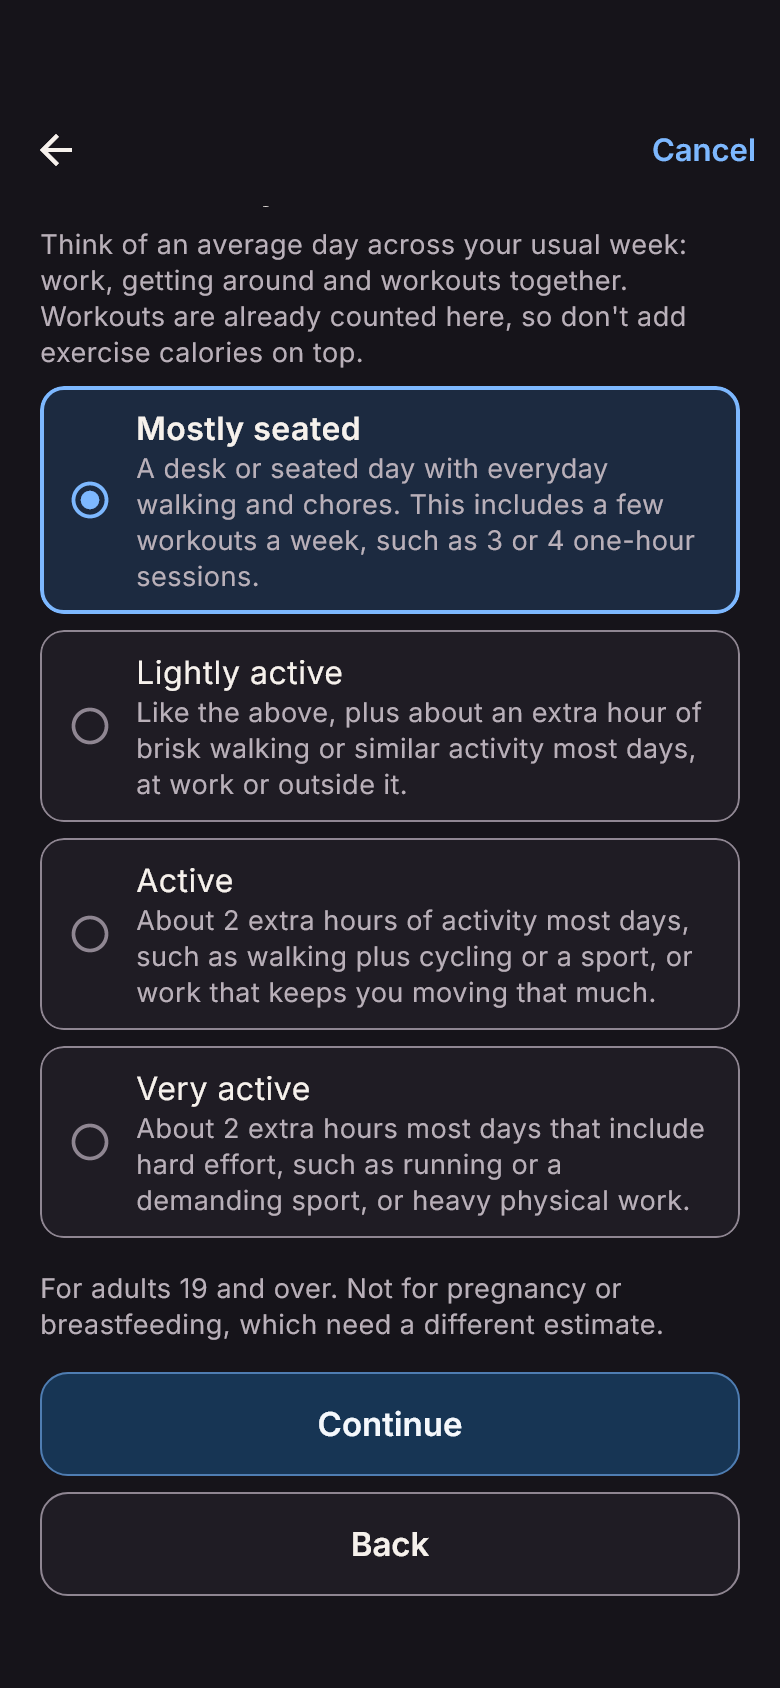
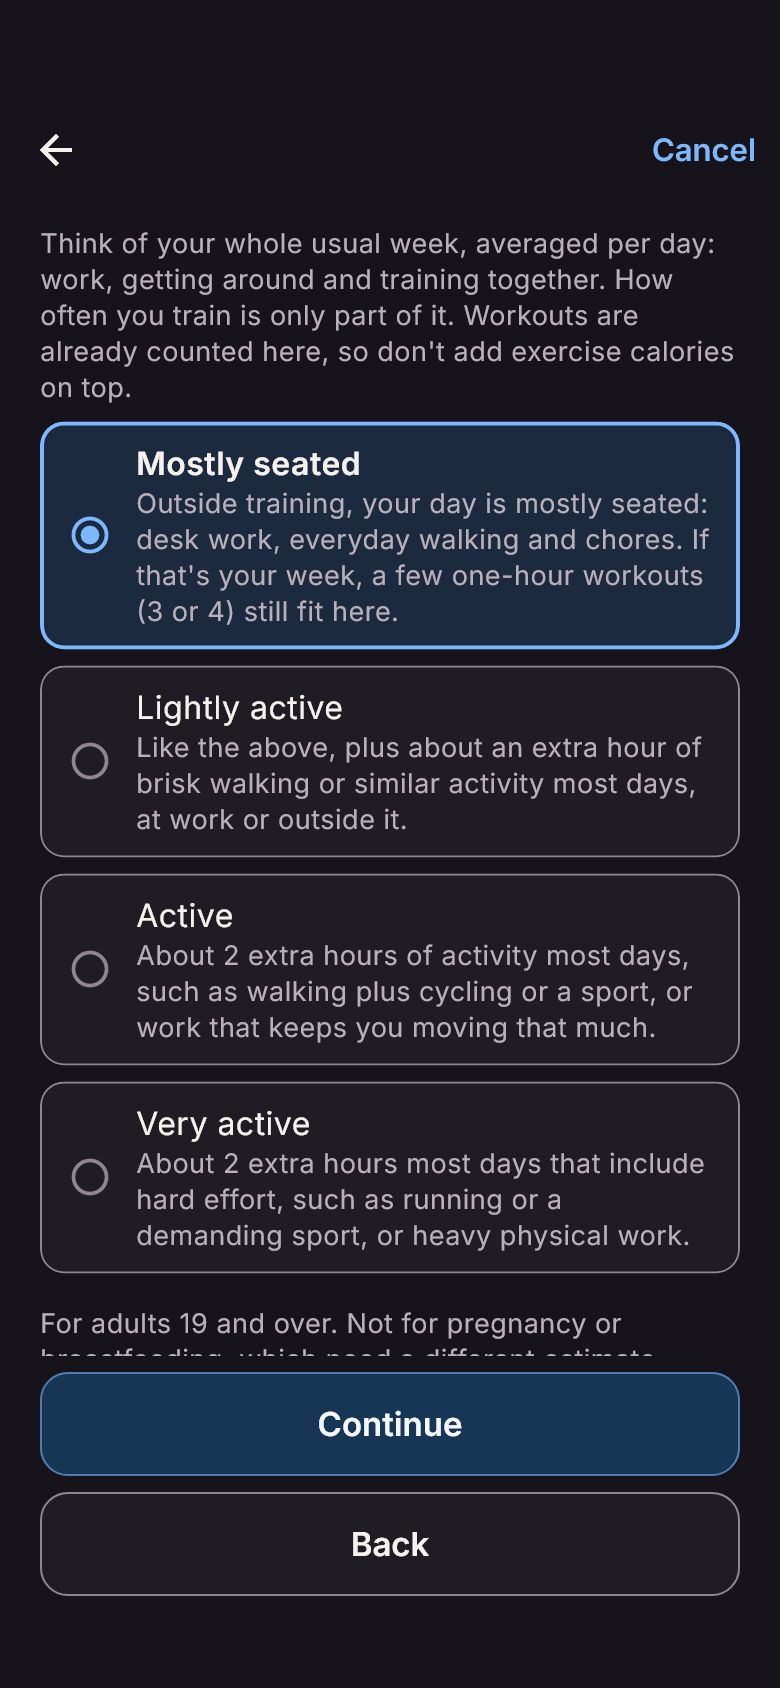
Eat: activity wording asks about the whole week; no overestimate claim
- Mostly seated describes daily life outside training; 3 or 4 one-hour workouts
  still fit only when the rest of the week is seated. The help says how often you
  train is only part of it (en/fr/ar).
- Docs and ledger: a different category changes the estimate by the gap between
  equations (210-420 kcal for the reference man); actual needs stay uncertain.
  No equation or rule changed; dietitian-review items kept.

Changed region(s): [[0.0308, 0.1232, 0.9538, 0.8009]]

diff --git a/app/lib/l10n/app_localizations.dart b/app/lib/l10n/app_localizations.dart
@@ -19182,10 +19182,10 @@ abstract class AppLocalizations {
   /// **'How active is your usual week?'**
   String get tgtActivity;
 
-  /// Under the activity question: one answer for work, getting around and workouts; no exercise calories added.
+  /// Under the activity question: the whole usual week counts (work, getting around, training); workout frequency alone does not decide it; no exercise calories added.
   ///
   /// In en, this message translates to:
-  /// **'Think of an average day across your usual week: work, getting around and workouts together. Workouts are already counted here, so don\'t add exercise calories on top.'**
+  /// **'Think of your whole usual week, averaged per day: work, getting around and training together. How often you train is only part of it. Workouts are already counted here, so don\'t add exercise calories on top.'**
   String get tgtActivityHelp;
 
   /// Activity choice (NASEM inactive).
@@ -19194,10 +19194,10 @@ abstract class AppLocalizations {
   /// **'Mostly seated'**
   String get tgtActInactive;
 
-  /// Example under Mostly seated (NASEM inactive, Table 7-1).
+  /// Example under Mostly seated (NASEM inactive, Table 7-1): describes daily life outside training; a few workouts can still fit.
   ///
   /// In en, this message translates to:
-  /// **'A desk or seated day with everyday walking and chores. This includes a few workouts a week, such as 3 or 4 one-hour sessions.'**
+  /// **'Outside training, your day is mostly seated: desk work, everyday walking and chores. If that\'s your week, a few one-hour workouts (3 or 4) still fit here.'**
   String get tgtActInactiveLine;
 
   /// Activity choice (NASEM low active).

diff --git a/app/lib/l10n/app_localizations_ar.dart b/app/lib/l10n/app_localizations_ar.dart
@@ -13389,14 +13389,14 @@ class AppLocalizationsAr extends AppLocalizations {
 
   @override
   String get tgtActivityHelp =>
-      'فكّر في يوم متوسط من أسبوعك المعتاد: العمل والتنقل والتمارين معًا. التمارين محسوبة هنا، فلا تُضِف سعرات التمرين فوقها.';
+      'فكّر في أسبوعك المعتاد كله، بمتوسط يومي: العمل والتنقل والتمارين معًا. عدد مرات التمرين جزء من الصورة فقط. التمارين محسوبة هنا، فلا تُضِف سعرات التمرين فوقها.';
 
   @override
   String get tgtActInactive => 'جالس في الغالب';
 
   @override
   String get tgtActInactiveLine =>
-      'يوم مكتبي أو جلوس مع المشي والأعمال اليومية المعتادة. يشمل ذلك بضعة تمارين أسبوعيًا، مثل 3 أو 4 حصص مدة كل منها ساعة.';
+      'خارج التمرين، معظم يومك جلوس: عمل مكتبي ومشي وأعمال يومية معتادة. إن كان هذا أسبوعك، فبضعة تمارين مدة كل منها ساعة (3 أو 4) تبقى ضمن هذا الخيار.';
 
   @override
   String get tgtActLow => 'نشاط خفيف';

diff --git a/app/lib/l10n/app_localizations_fr.dart b/app/lib/l10n/app_localizations_fr.dart
@@ -13092,14 +13092,14 @@ class AppLocalizationsFr extends AppLocalizations {
 
   @override
   String get tgtActivityHelp =>
-      'Pense à une journée moyenne de ta semaine habituelle : travail, déplacements et entraînements ensemble. Les entraînements sont déjà comptés ici, alors n\'ajoute pas de calories d\'exercice en plus.';
+      'Pense à toute ta semaine habituelle, en moyenne par jour : travail, déplacements et entraînements ensemble. La fréquence de tes entraînements n\'en est qu\'une partie. Les entraînements sont déjà comptés ici, alors n\'ajoute pas de calories d\'exercice en plus.';
 
   @override
   String get tgtActInactive => 'Surtout assis';
 
   @override
   String get tgtActInactiveLine =>
-      'Une journée au bureau ou assise, avec la marche et les tâches de tous les jours. Ça inclut quelques entraînements par semaine, comme 3 ou 4 séances d\'une heure.';
+      'En dehors de l\'entraînement, ta journée est surtout assise : travail de bureau, marche et tâches de tous les jours. Si c\'est ta semaine, quelques séances d\'une heure (3 ou 4) y ont encore leur place.';
 
   @override
   String get tgtActLow => 'Légèrement actif';

diff --git a/app/test/target_helper_ui_test.dart b/app/test/target_helper_ui_test.dart
@@ -123,8 +123,10 @@ void main() {
 
     // One question for the whole usual week; workouts are already in it; nothing selected.
     expect(find.text('How active is your usual week?'), findsOneWidget);
-    expect(_text(tester, 'tgt-activity-help'), contains("don't add exercise calories"));
-    expect(find.textContaining('3 or 4 one-hour sessions'), findsOneWidget, reason: 'a desk job with a few workouts is described under Mostly seated');
+    expect(_text(tester, 'tgt-activity-help'), allOf(contains("don't add exercise calories"), contains('How often you train is only part of it')));
+    // Mostly seated describes daily life outside training; a few workouts fit there only when the rest of the week is seated.
+    expect(find.textContaining("Outside training, your day is mostly seated"), findsOneWidget);
+    expect(find.textContaining("If that's your week, a few one-hour workouts (3 or 4) still fit here."), findsOneWidget);
     for (final t in tester.widgetList<ChoiceTile<ActivityLevel?>>(find.byType(ChoiceTile<ActivityLevel?>))) {
       expect(t.groupValue, isNull);
     }

diff --git a/app/lib/l10n/app_localizations_en.dart b/app/lib/l10n/app_localizations_en.dart
@@ -12882,14 +12882,14 @@ class AppLocalizationsEn extends AppLocalizations {
 
   @override
   String get tgtActivityHelp =>
-      'Think of an average day across your usual week: work, getting around and workouts together. Workouts are already counted here, so don\'t add exercise calories on top.';
+      'Think of your whole usual week, averaged per day: work, getting around and training together. How often you train is only part of it. Workouts are already counted here, so don\'t add exercise calories on top.';
 
   @override
   String get tgtActInactive => 'Mostly seated';
 
   @override
   String get tgtActInactiveLine =>
-      'A desk or seated day with everyday walking and chores. This includes a few workouts a week, such as 3 or 4 one-hour sessions.';
+      'Outside training, your day is mostly seated: desk work, everyday walking and chores. If that\'s your week, a few one-hour workouts (3 or 4) still fit here.';
 
   @override
   String get tgtActLow => 'Lightly active';

diff --git a/docs/NUTRITION_TARGETS.md b/docs/NUTRITION_TARGETS.md
@@ -104,26 +104,34 @@ multiplier is validated against these questions.
 
 ### Activity: the whole usual week
 
-One question, **How active is your usual week?**, with *"Think of an average day across your usual week: work,
-getting around and workouts together. Workouts are already counted here, so don't add exercise calories on top."*
+One question, **How active is your usual week?**, with *"Think of your whole usual week, averaged per day: work,
+getting around and training together. How often you train is only part of it. Workouts are already counted here, so
+don't add exercise calories on top."* The answer describes the whole week; workout frequency alone does not decide it.
 Each answer is one NASEM category; its example paraphrases NASEM Table 7-1, whose examples are "most appropriate for
 individuals in occupations that require little physical exertion or movement, such as office work" and add activity
 to activities of daily living (ADL: about 30 min walking and 90 min light-to-moderate household tasks):
 
 | Answer (example on screen) | NASEM category | Table 7-1 basis |
 |---|---|---|
-| Mostly seated (desk or seated day with everyday walking and chores; includes a few workouts a week, such as 3 or 4 one-hour sessions) | Inactive | ADL only |
+| Mostly seated (outside training, the day is mostly seated: desk work, everyday walking and chores; if that's the week, a few one-hour workouts, 3 or 4, still fit here) | Inactive | ADL only |
 | Lightly active (plus about an extra hour of brisk walking or similar most days, at work or outside it) | Low active | ADL + 60–80 min walking at 3–4 mph |
 | Active (about 2 extra hours most days, e.g. walking plus cycling or a sport, or work that moves you that much) | Active | ADL + 30–50 min walking, 45 min moderate cycling, 40 min doubles tennis |
 | Very active (about 2 extra hours most days including hard effort, e.g. running, or heavy physical work) | Very active | ADL + 45 min cycling, ~25 min jogging, 60 min doubles tennis |
 
-**GoHard's reading, not a validated mapping:** "3 or 4 one-hour workouts a week" under *Mostly seated*. Four hours a
-week averages about 34 min a day; at roughly 3.5–6 METs (typical resistance-training intensities) that adds about
-0.07–0.12 to a desk day's PAL of about 1.4, which stays under the 1.53 boundary. NASEM itself warns that the categories
-do not correspond to physical-activity guidelines. Before this change the old wording ("an hour of walking or exercise
-on most days" for Lightly active; "1½ to 2 hours … on most days" for Active) let a desk worker who trains four times a
-week read themselves as Lightly active or Active; that is what made the reference man's maintenance 210–420 kcal
-higher than the method implies (see *Before and after*).
+*Mostly seated* describes daily life outside training. **GoHard's reading, not a validated mapping:** when the rest of
+the week is mostly seated, "3 or 4 one-hour workouts a week" still fits *Mostly seated*. Four hours a week averages
+about 34 min a day; at roughly 3.5–6 METs (typical resistance-training intensities) that adds about 0.07–0.12 to a
+desk day's PAL of about 1.4, which stays under the 1.53 boundary. The same four workouts beside a job on one's feet,
+long daily walks or cycling to work can belong in a higher category: the rest of the week decides, not workout
+frequency alone. NASEM itself warns that the categories do not correspond to physical-activity guidelines.
+
+The old wording ("an hour of walking or exercise on most days" for Lightly active; "1½ to 2 hours … on most days" for
+Active) made it easy for someone who trains four times a week to choose by workout count rather than by the whole
+week. Choosing a different category changes the estimate by the gap between the equations: for the reference man,
+Lightly active or Active gives 210 or 420 kcal more estimated maintenance than Mostly seated (see *Before and after*).
+That is the difference between categories, not a measured overestimate: his actual needs are unknown, any category's
+estimate carries individual error (NASEM's standard error of the predicted value is about 342 kcal/day for men), and
+his weight trend over several weeks is the check.
 
 ### Goals: maintenance → adjustment → target
 
@@ -179,15 +187,16 @@ change is promised.
   prescriptions (AHA/ACC/TOS 2013); the 1,500–2,000 kJ starting surplus (Slater 2019); protein 1.4–2.0 g/kg (ISSN 2017)
   and the ~1.6 g/kg plateau (Morton 2018); the AMDR shares (IOM 2005); the effect of a deficit on lean-mass gains
   (Murphy & Koehler 2022).
-- **GoHard's choices:** NASEM rather than Mifflin × multiplier; the activity examples and the "3 or 4 workouts → Mostly
-  seated" reading; one −500 kcal deficit for everyone; the floor as a starting rule; +360 kcal; 1.4 / 1.6 / 1.6 / 2.0
+- **GoHard's choices:** NASEM rather than Mifflin × multiplier; the activity examples and the reading that 3 or 4
+  workouts still fit Mostly seated when the rest of the week is seated; one −500 kcal deficit for everyone; the floor as a starting rule; +360 kcal; 1.4 / 1.6 / 1.6 / 2.0
   g/kg by goal on actual weight; the 35 % cap; fat at 30 %; the recomposition priority reusing the loss deficit; the
   input bounds and the BMI < 18.5 refusal for deficits; rounding.
 
 ## Before and after (reference examples)
 
-Assumptions: the formula's sex input as stated; height and weight typed as given; "desk job, trains four times a week
-for about an hour" for the man. Calories / protein.
+Assumptions: the formula's sex input as stated; height and weight typed as given; for the man, "desk job, trains four
+times a week for about an hour, otherwise mostly seated". Calories / protein. Every row is an estimate for that
+category, not a measured requirement.
 
 | Person | Activity | Maintain | Lose | Gain | Recomp, steady | Recomp, fat loss first |
 |---|---|---|---|---|---|---|
@@ -202,10 +211,12 @@ for about an hour" for the man. Calories / protein.
 
 Before (main a0ba9ac): within a category every value above was the same (checked for all 32 cells; the rounding change
 moves other inputs by at most 10 kcal); recomposition had only "maintenance" (now *keep weight about steady*). What
-changes for the man is the category the question leads to: under the old wording a desk worker training four times a
-week could pick Lightly active or Active (Lose weight 2,470 or 2,680 kcal); the new wording places him in Mostly
-seated (2,260 kcal), the category NASEM's definitions imply. For the woman nothing changes unless her week was
-described the same way.
+changes is which category the question leads someone to. Under the old wording the man could have chosen Lightly
+active or Active by workout count (Lose weight 2,470 or 2,680 kcal); the new wording asks about his whole week, and if
+his days outside training are mostly seated, its description matches Mostly seated (2,260 kcal). The 210–420 kcal gap
+is what changing category does to the estimate; which number is closer to his real needs is not known from these
+answers, and his weight trend is the check. If his week also included an active job or long daily walks, a higher
+category would be the right answer. For the woman nothing changes unless her week is described differently.
 
 ## Checking your starting point
 
@@ -222,6 +233,7 @@ dashboard or notification.
 2. The 1.4 g/kg Maintain value for people who do not exercise (RDA 0.8; within the AMDR).
 3. One −500 kcal deficit for everyone vs a sex-specific or proportional deficit (NASEM's 1.96 × SEPV illustration:
    472 / 670 kcal); whether the 1,200 / 1,500 kcal starting floor is right for small, older or inactive people.
-4. The activity examples and the "3 or 4 one-hour workouts → Mostly seated" reading against Table 7-1.
+4. The activity examples against Table 7-1, including the reading that 3 or 4 one-hour workouts still fit Mostly
+   seated when the rest of the week is mostly seated.
 5. Recomposition "fat loss first" reusing the 500 kcal deficit given Murphy & Koehler's finding.
 6. Upper age bound (100) and whether to state anything for older adults beyond the equations' own age term.

diff --git a/docs/PROGRESS_LEDGER.md b/docs/PROGRESS_LEDGER.md
@@ -2785,13 +2785,16 @@ price; no Subscribe / trial / Restore action. Unmerged work and the deferred vid
 - Audit against primary sources (docs/NUTRITION_TARGETS.md › Method): NASEM 2023 adult TEE coefficients and PAL
   bands match Health Canada's published table; NASEM Table 7-1 examples, SEPV (342 / 241 kcal) and "do not predict
   energy requirements for those seeking to lose or gain weight" read from the report; Mifflin–St Jeor (RMR, needs a
-  multiplier) compared and not chosen. **Incorrect:** the activity examples let a desk worker who trains about four
-  hours a week pick Lightly active or Active (210–420 kcal more maintenance than NASEM's definitions imply); step 3
-  opened at step 2's scroll offset (title under the app bar, −833 px at 390 × 844). **Unclear:** recomposition always
+  multiplier) compared and not chosen. **Incorrect:** step 3 opened at step 2's scroll offset (title under the app
+  bar, −833 px at 390 × 844). **Misleading:** the activity examples invited choosing by workout count, so someone who
+  trains about four hours a week but is otherwise seated could pick Lightly active or Active; for the reference man
+  that category change alone moves estimated maintenance by 210–420 kcal (a gap between categories, not a measured
+  overestimate; his actual needs are uncertain; corrected wording below, 19 Nov follow-up). **Unclear:** recomposition always
   at maintenance; adjustment not shown as maintenance → adjustment → target; floor wording; edits silently replaced on
   recalculation; details used not visible.
-- Changed: whole-week activity question (examples from Table 7-1; "3 or 4 one-hour workouts" under Mostly seated,
-  documented as GoHard's reading); recomposition asks What comes first? (steady = maintenance; fat loss first = the
+- Changed: whole-week activity question (examples from Table 7-1; Mostly seated describes daily life outside
+  training, and "3 or 4 one-hour workouts" still fit it when the rest of the week is seated, documented as GoHard's
+  reading); recomposition asks What comes first? (steady = maintenance; fat loss first = the
   −500 kcal deficit and floor, trade-off stated); maintenance rounded first, adjustments whole (−500 / +360 / 0) so the
   ledger adds up; protein cap never passed after rounding; macro breakdown flags protein + fat over calories. Result
   screen: goal + Change, approach sentence, editable fields marked suggested / edited (Use suggestion), ledger, Details
@@ -2813,3 +2816,18 @@ price; no Subscribe / trial / Restore action. Unmerged work and the deferred vid
   `flutter test` runs crashed the Dart VM for the same reason before the `-j 2` run passed. Temporary API, container,
   password file, Gradle daemon and emulator removed. **Not verified:** iPhone, VoiceOver, dietitian review.
 - Code 612d650: CI 220 (44547660945) passed; unsigned IPA run 77 (44558794004, tag `ipa-target-estimate-review-612d650`) passed. Not merged, not deployed.
+
+### 19 Nov 2026 — activity wording follow-up (same branch)
+
+- Owner correction: the earlier wording here and in docs/NUTRITION_TARGETS.md said the old activity choices made the
+  reference man's maintenance "210–420 kcal higher than the method implies". That overstated it. Corrected to: picking
+  Lightly active or Active instead of Mostly seated changes his estimate by 210 or 420 kcal (the gap between the
+  categories' equations); his actual needs remain uncertain (SEPV ~342 kcal/day for men) and the weight trend is the
+  check. No equation, adjustment, rounding or rule changed.
+- On screen (en/fr/ar): the activity help says the whole usual week counts and "How often you train is only part of
+  it"; Mostly seated now reads "Outside training, your day is mostly seated: desk work, everyday walking and chores.
+  If that's your week, a few one-hour workouts (3 or 4) still fit here." Dietitian-review items unchanged (item 4
+  reworded to the same reading).
+- Verified: `target_estimate_test` + `target_helper_ui_test` 21 passed, full app suite 958 passed (`-j 2`), `flutter
+  analyze` clean, `check-l10n` OK;
+  activity renders regenerated (en light/dark, fr, ar, 320 px 2×) and reviewed.
